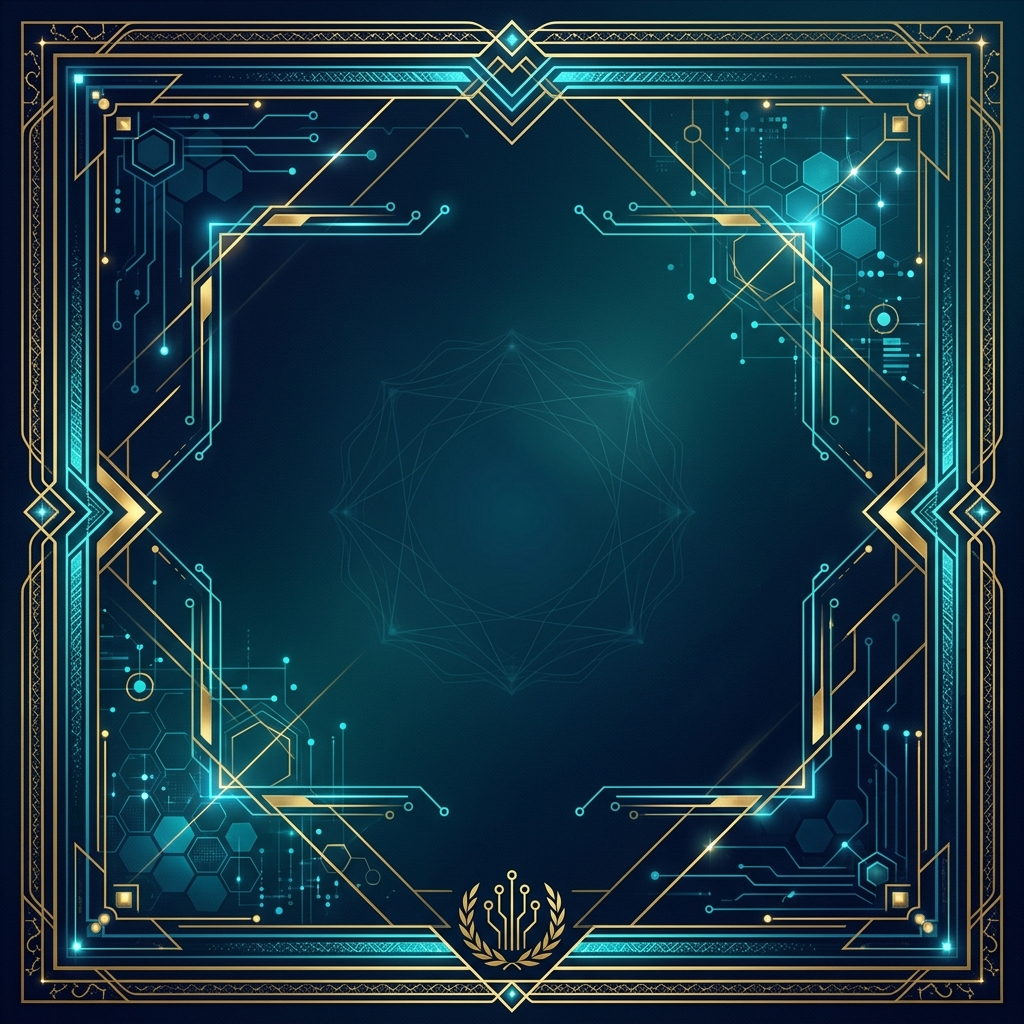
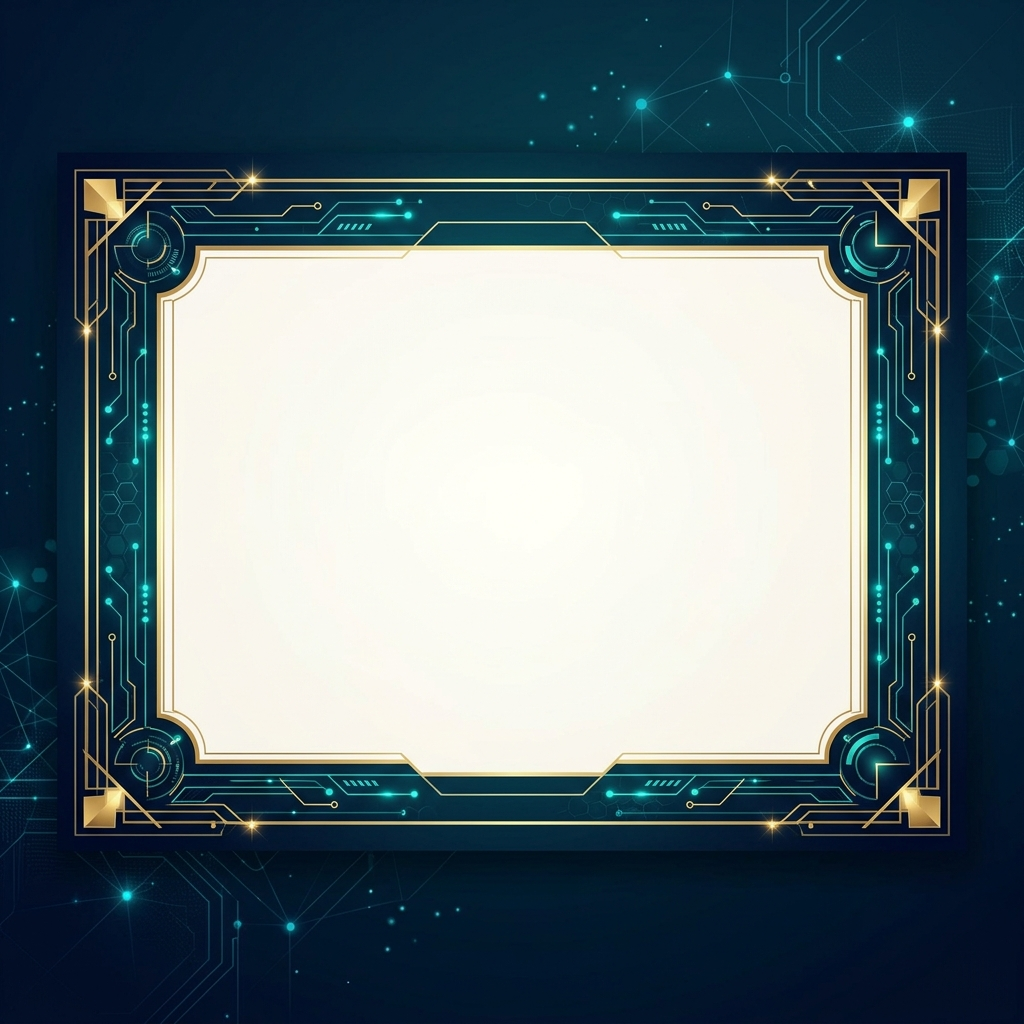
style(certificates): enforce strict 16:9 aspect ratio for certificate template

diff --git a/src/components/dashboards/StudentDashboard.jsx b/src/components/dashboards/StudentDashboard.jsx
@@ -493,19 +493,19 @@ export default function StudentDashboard() {
 
             {/* Certificate Printable Area */}
             <div id="printable-cert" 
-                 className="p-10 md:p-16 relative min-h-[600px] flex flex-col justify-center items-center text-center m-4 rounded-xl print:m-0 print:h-screen bg-cover bg-center overflow-hidden border-4 border-teal-800/30 shadow-inner"
+                 className="w-full aspect-video p-6 sm:p-10 md:p-16 relative flex flex-col justify-center items-center text-center mx-auto my-4 rounded-xl print:m-0 print:w-[297mm] print:h-[210mm] print:aspect-auto bg-cover bg-center overflow-hidden border-4 border-teal-800/30 shadow-inner"
                  style={{ backgroundImage: 'url(/certificate-bg.png)' }}>
               {/* Overlay to ensure text readability if needed */}
               <div className="absolute inset-0 bg-white/40 print:bg-white/40 pointer-events-none z-0"></div>
               
-              <div className="relative z-10 mb-8 mt-12">
-                <h1 className="text-4xl md:text-6xl font-black font-orbitron text-[#0a1f3d] mb-2 tracking-widest drop-shadow-md">CERTIFICATE</h1>
-                <h2 className="text-xl md:text-2xl text-teal-900 font-bold uppercase tracking-[0.2em] drop-shadow-sm">Of Completion</h2>
+              <div className="relative z-10 mb-4 sm:mb-8 mt-6 sm:mt-12">
+                <h1 className="text-3xl sm:text-4xl md:text-6xl font-black font-orbitron text-[#0a1f3d] mb-1 sm:mb-2 tracking-widest drop-shadow-md">CERTIFICATE</h1>
+                <h2 className="text-lg sm:text-xl md:text-2xl text-teal-900 font-bold uppercase tracking-[0.2em] drop-shadow-sm">Of Completion</h2>
               </div>
 
-              <div className="space-y-6 relative z-10 w-full max-w-2xl mx-auto">
-                <p className="text-lg text-slate-900 font-semibold uppercase tracking-widest drop-shadow-sm">This is to certify that</p>
-                <h3 className="text-3xl md:text-5xl font-black text-[#0a1f3d] border-b-2 border-[#0a1f3d]/40 pb-4 mb-4 drop-shadow-lg">{studentName}</h3>
+              <div className="space-y-4 sm:space-y-6 relative z-10 w-full max-w-2xl mx-auto">
+                <p className="text-sm sm:text-lg text-slate-900 font-semibold uppercase tracking-widest drop-shadow-sm">This is to certify that</p>
+                <h3 className="text-2xl sm:text-3xl md:text-5xl font-black text-[#0a1f3d] border-b-2 border-[#0a1f3d]/40 pb-2 sm:pb-4 mb-2 sm:mb-4 drop-shadow-lg">{studentName}</h3>
                 
                 <p className="text-lg text-slate-900 font-semibold drop-shadow-sm">Has successfully completed the advanced course</p>
                 <h4 className="text-2xl md:text-4xl font-black text-teal-900 my-4 drop-shadow-lg">{selectedCert.course}</h4>